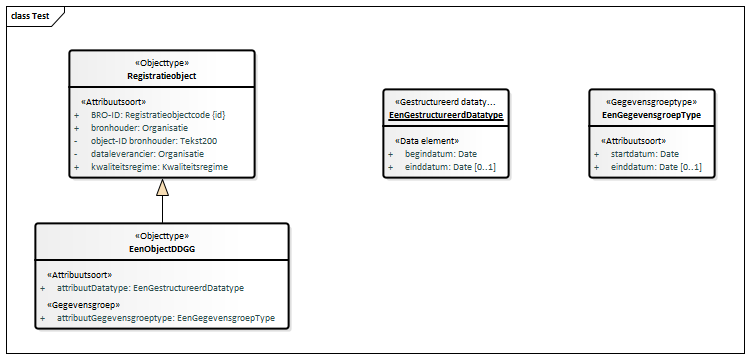
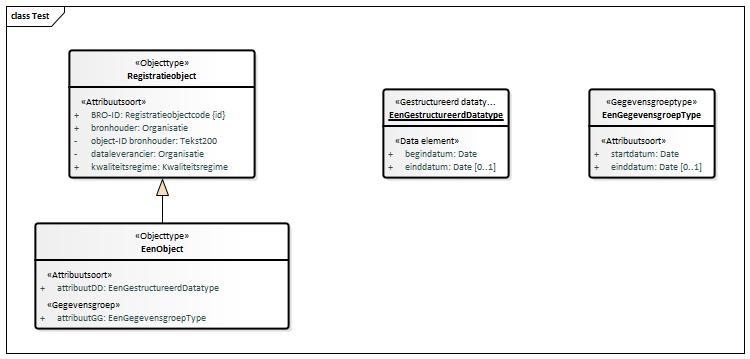
Conceptualmodel-95GestructureerddatatypeSAMPLE1-1.0-1-20190731-20200130-134645

Changed region(s): [[0.1227, 0.8579, 0.368, 0.9192], [0.1227, 0.7967, 0.3373, 0.8273], [0.1533, 0.6741, 0.276, 0.7047]]

diff --git a/data/GAR-cat.msword.html b/data/GAR-cat.msword.html
@@ -13,7 +13,7 @@
    <body>
       <p>Conceptual model/95 Gestructureerd datatype (SAMPLE1)/20190731</p>
       <p>Imvertor: 1.58.0</p>
-      <p>Model release: Conceptualmodel-95GestructureerddatatypeSAMPLE1-1.0-1-20190731-20200130-134100</p>
+      <p>Model release: Conceptualmodel-95GestructureerddatatypeSAMPLE1-1.0-1-20190731-20200130-134645</p>
       <hr>
       <section>
          <h1>Artikel 1 Definitie van registratieobject, entiteiten en attributen</h1>
@@ -60,8 +60,8 @@
          </section>
          <section>
             <h2>Entiteiten en attributen</h2>
-            <section id=""><a class="anchor" id="graph_EAID_6AFD7588_D576_4771_91E8_1604679A155B"></a><section id="global_class_Model_EenObjectDDGG">
-                  <h3>   EenObjectDDGG</h3>
+            <section id=""><a class="anchor" id="graph_EAID_6AFD7588_D576_4771_91E8_1604679A155B"></a><section id="global_class_Model_EenObject">
+                  <h3>   EenObject</h3>
                   <table style="width: 100%;">
                      <colgroup style="width: 30%;"></colgroup>
                      <colgroup style="width: 70%;"></colgroup>
@@ -71,18 +71,22 @@
                            <td>Entiteit</td>
                         </tr>
                         <tr>
+                           <th>Definitie</th>
+                           <td>TODO</td>
+                        </tr>
+                        <tr>
                            <th>Relaties met andere entiteiten</th>
-                           <td>EenObjectDDGG 
-                              attribuutGegevensgroeptype 1 
+                           <td>EenObject 
+                              attribuutGG 1 
                               <a class="link" href="#global_class_Model_EenGegevensgroepType">EenGegevensgroepType</a>
-                              <br>EenObjectDDGG is specialisatie van 
+                              <br>EenObject is specialisatie van 
                               <a class="link" href="#global_class_Model_Registratieobject">Registratieobject</a>
                               <br></td>
                         </tr>
                      </tbody>
                   </table>
-                  <section id="detail_attribute_Model_EenObjectDDGG_attribuutDatatype">
-                     <h4>  attribuutDatatype</h4>
+                  <section id="detail_attribute_Model_EenObject_attribuutDD">
+                     <h4>  attribuutDD</h4>
                      
                      <table style="width: 100%;">
                         <colgroup style="width: 30%;"></colgroup>
@@ -90,7 +94,11 @@
                         <tbody>
                            <tr>
                               <th>Type gegeven</th>
-                              <td>Attribuut van EenObjectDDGG</td>
+                              <td>Attribuut van EenObject</td>
+                           </tr>
+                           <tr>
+                              <th>Definitie</th>
+                              <td>TODO</td>
                            </tr>
                            <tr>
                               <th>Juridische status</th>
@@ -125,9 +133,9 @@
                         <tr>
                            <th>Relaties met andere entiteiten</th>
                            <td>
-                              <a class="link" href="#global_class_Model_EenObjectDDGG">EenObjectDDGG</a>
+                              <a class="link" href="#global_class_Model_EenObject">EenObject</a>
                               
-                              attribuutGegevensgroeptype 1 EenGegevensgroepType<br></td>
+                              attribuutGG 1 EenGegevensgroepType<br></td>
                         </tr>
                      </tbody>
                   </table>
@@ -141,6 +149,10 @@
                            <tr>
                               <th>Type gegeven</th>
                               <td>Attribuut van EenGegevensgroepType</td>
+                           </tr>
+                           <tr>
+                              <th>Definitie</th>
+                              <td>TODO</td>
                            </tr>
                            <tr>
                               <th>Juridische status</th>
@@ -172,6 +184,10 @@
                            <tr>
                               <th>Type gegeven</th>
                               <td>Attribuut van EenGegevensgroepType</td>
+                           </tr>
+                           <tr>
+                              <th>Definitie</th>
+                              <td>TODO</td>
                            </tr>
                            <tr>
                               <th>Juridische status</th>
